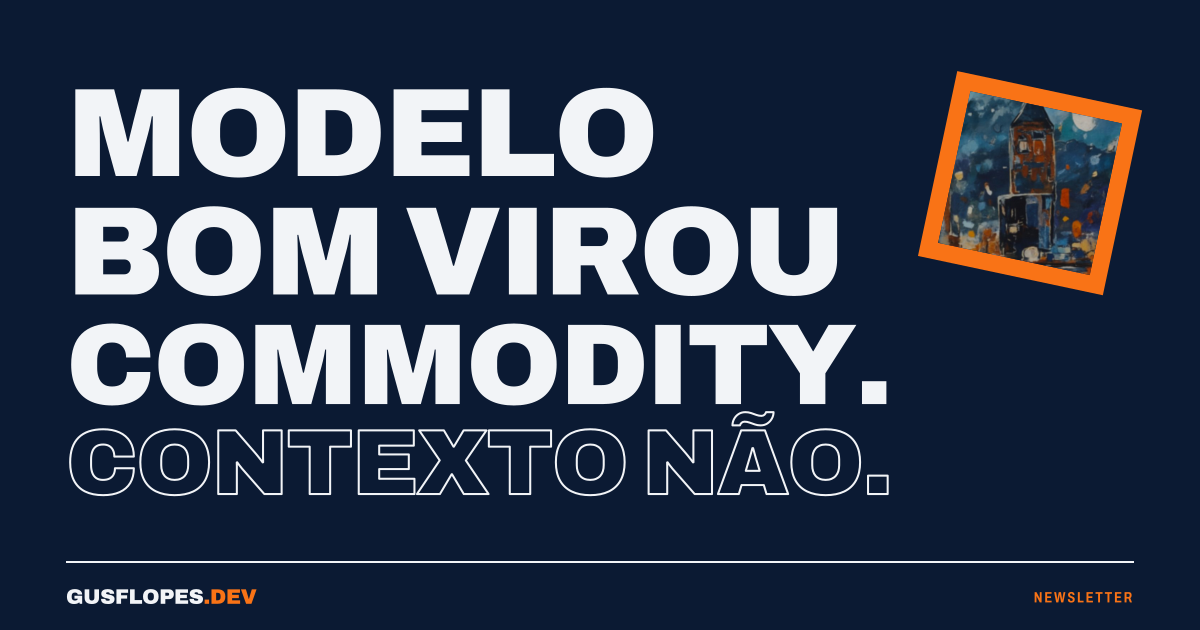
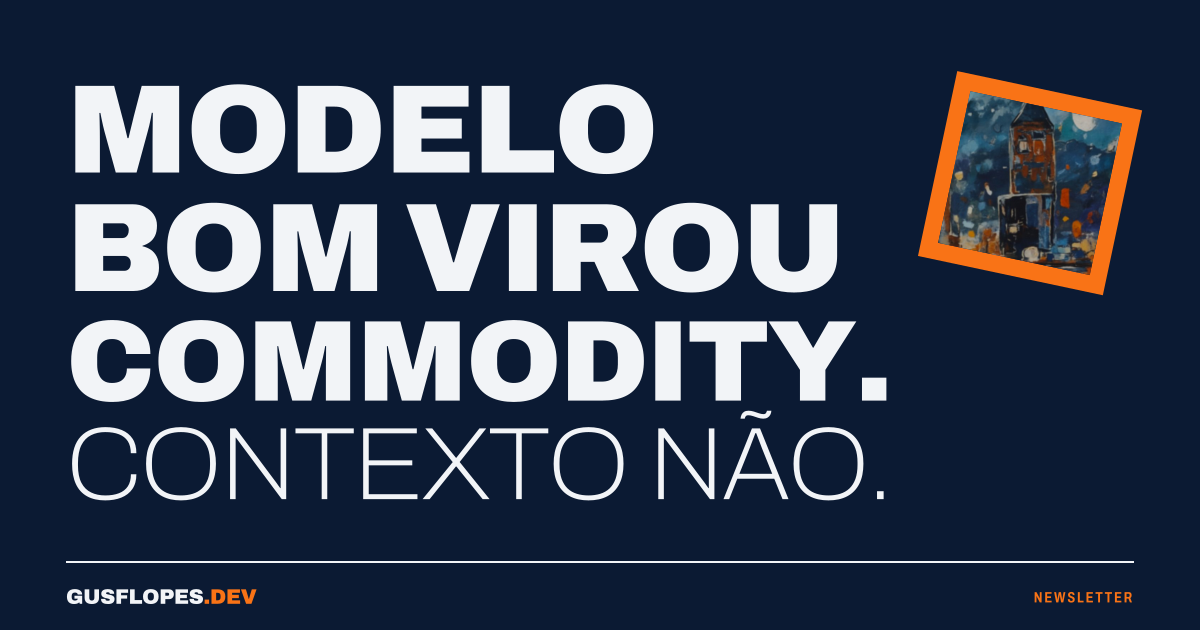
fix(design): baixa o volume abaixo do hero — par 900/100, nomes em caixa mista, janela maior no celular
- Aberturas: a linha marcada deixa de ser vazada e passa a Archivo 100 sólido (o par 900/100),
  medida com as larguras do peso 100 (métricas regeneradas). Vazado só no MESMO da tese e no
  Simulador (opção `vazado`). O gerador de capa do kit segue a mesma regra; exemplos regenerados.
- Nomes dos temas, serviços e eixos e a ação do Simulador: Archivo estreita 780 em caixa mista
  (NomeCelula); a caixa-alta 900 fica para uma abertura por seção.
- Temas no celular: só filete de topo, sem caixas fechadas.
- Hero: janela do quadro com ~42% da largura no celular, no vão de MESMO/SISTEMA, sangrando na
  borda direita sem cobrir o DO; metadados sem "·" pendurado (cada item sem quebra, o
  separador vai com o item seguinte).

Claude-Session: https://claude.ai/code/session_01G5QirRtrqW1g2QHV9fAH4M

diff --git a/src/lib/abertura.ts b/src/lib/abertura.ts
@@ -11,11 +11,14 @@
  *    build por scripts/gerar-metricas-abertura.mjs).
  * 4. Escala e forma por eixo:
  *    - engenharia → "bloco": cada linha ajustada à largura toda (justificado), alinhado à esquerda;
- *      a última linha vazada.
- *    - negocios → "escada": larguras decrescentes, alinhado à direita; a primeira linha vazada.
+ *      a última linha leve.
+ *    - negocios → "escada": larguras decrescentes, alinhado à direita; a primeira linha leve.
  *    - bastidores → "degraus": mesmo corpo em todas as linhas, cada uma recuada um degrau;
- *      a linha do meio vazada.
- *    - newsletter → "bloco", com a última linha vazada.
+ *      a linha do meio leve.
+ *    - newsletter → "bloco", com a última linha leve.
+ * 5. Par 900/100: a linha marcada é o mesmo desenho no peso 100, sólida, medida com as larguras
+ *    do peso 100. O contorno vazado fica para quem pede (`vazado: true`): na home, só o Simulador
+ *    (e o MESMO da tese, que é montado à mão).
  *
  * O resultado é só dado (linhas, tamanhos em cqi, recuos); quem desenha é o componente
  * Abertura (site) e o gerador de capa do Substack (docs/substack-kit/gerar-capa.mjs).
@@ -38,7 +41,11 @@ export interface LinhaAbertura {
   fit: number;
   /** Recuo à esquerda em cqi (forma "degraus"). */
   recuo: number;
-  estilo: 'cheio' | 'vazado';
+  /**
+   * "leve": a linha marcada do par 900/100 (mesmo desenho no peso 100, sólida).
+   * "vazado": só no contorno, reservado a pedidos explícitos (opção `vazado`).
+   */
+  estilo: 'cheio' | 'leve' | 'vazado';
   /** Largura da linha em em (para quem desenha fora do CSS). */
   largura: number;
 }
@@ -63,14 +70,21 @@ const TRACKING = -0.02; // em por glifo, igual ao letter-spacing do CSS
 const ESPACO_ESTREITA = 0.12; // em extra por espaço na estreita, igual ao word-spacing do CSS
 // nenhuma linha passa deste corpo (em % da largura do bloco): 24 na larga, 34 na estreita
 const TETOS: Record<InstanciaAbertura, number> = { larga: 24, estreita: 34 };
-const TABELAS: Record<InstanciaAbertura, { larguras: Record<string, number>; padrao: number }> = {
-  larga: { larguras: metricas.larguras as Record<string, number>, padrao: metricas.padrao },
-  estreita: { larguras: metricas.estreita.larguras as Record<string, number>, padrao: metricas.estreita.padrao },
+type Tabela = { larguras: Record<string, number>; padrao: number };
+const TABELAS: Record<InstanciaAbertura, { cheio: Tabela; leve: Tabela }> = {
+  larga: {
+    cheio: { larguras: metricas.larguras as Record<string, number>, padrao: metricas.padrao },
+    leve: { larguras: metricas.leve.larguras as Record<string, number>, padrao: metricas.leve.padrao },
+  },
+  estreita: {
+    cheio: { larguras: metricas.estreita.larguras as Record<string, number>, padrao: metricas.estreita.padrao },
+    leve: { larguras: metricas.estreita.leve.larguras as Record<string, number>, padrao: metricas.estreita.leve.padrao },
+  },
 };
 
-/** Largura em em de um texto já em caixa-alta, na instância de display pedida. */
-export function larguraEm(texto: string, instancia: InstanciaAbertura = 'larga'): number {
-  const t = TABELAS[instancia];
+/** Largura em em de um texto já em caixa-alta, na instância de display pedida (peso 900/850 ou leve 100). */
+export function larguraEm(texto: string, instancia: InstanciaAbertura = 'larga', leve = false): number {
+  const t = TABELAS[instancia][leve ? 'leve' : 'cheio'];
   let soma = 0;
   for (const ch of texto) soma += t.larguras[ch] ?? t.padrao;
   // a estreita leva word-spacing de 0.12em no CSS (o espaço dela é apertado demais)
@@ -164,6 +178,7 @@ export function abertura(
   titulo: string,
   eixo: EixoAbertura = 'engenharia',
   instancia: InstanciaAbertura = 'larga',
+  opcoes: { vazado?: boolean } = {},
 ): Abertura {
   const { cabeca, sep, cauda } = cortar(titulo);
   const us = unidades(cabeca);
@@ -171,9 +186,14 @@ export function abertura(
   const textos = particionar(us, n, instancia);
   const forma = FORMA[eixo];
   const TETO_CQI = TETOS[instancia];
+  // A linha marcada de cada forma: última no bloco, primeira na escada, a do meio nos degraus.
+  // Ela é leve (peso 100, sólida) — o par 900/100; vazada só quando pedido.
+  const marcada = n < 2 ? -1 : forma === 'bloco' ? n - 1 : forma === 'escada' ? 0 : Math.floor(n / 2);
+  const marca: LinhaAbertura['estilo'] = opcoes.vazado ? 'vazado' : 'leve';
+  const estilo = (i: number): LinhaAbertura['estilo'] => (i === marcada ? marca : 'cheio');
   // A largura medida inclui o separador na última linha, para ele caber no ajuste.
   const medidas = textos.map((t, i) =>
-    larguraEm(caixaAlta(i === textos.length - 1 && sep ? t + sep : t), instancia),
+    larguraEm(caixaAlta(i === textos.length - 1 && sep ? t + sep : t), instancia, estilo(i) === 'leve'),
   );
   // margem de 3% para kerning e arredondamento do navegador
   const util = 97;
@@ -184,7 +204,7 @@ export function abertura(
       texto: textos[i],
       fit: arred(Math.min(util / m, TETO_CQI)),
       recuo: 0,
-      estilo: n > 1 && i === n - 1 ? 'vazado' : 'cheio',
+      estilo: estilo(i),
       largura: m,
     }));
   } else if (forma === 'escada') {
@@ -194,7 +214,7 @@ export function abertura(
         texto: textos[i],
         fit: arred(Math.min((util * fracao) / m, TETO_CQI)),
         recuo: 0,
-        estilo: n > 1 && i === 0 ? 'vazado' : 'cheio',
+        estilo: estilo(i),
         largura: m,
       };
     });
@@ -202,12 +222,11 @@ export function abertura(
     const degrau = n > 1 ? Math.min(8, 24 / (n - 1)) : 0;
     const recuos = medidas.map((_, i) => i * degrau);
     const corpo = Math.min(TETO_CQI, ...medidas.map((m, i) => (util - recuos[i]) / m));
-    const meio = Math.floor(n / 2);
     linhas = medidas.map((m, i) => ({
       texto: textos[i],
       fit: arred(corpo),
       recuo: arred(recuos[i]),
-      estilo: n > 1 && i === meio ? 'vazado' : 'cheio',
+      estilo: estilo(i),
       largura: m,
     }));
   }

diff --git a/src/components/Abertura.tsx b/src/components/Abertura.tsx
@@ -1,5 +1,5 @@
 import type { CSSProperties } from 'react';
-import { abertura, larguraEm, type EixoAbertura, type InstanciaAbertura } from '../lib/abertura';
+import { abertura, type EixoAbertura, type InstanciaAbertura } from '../lib/abertura';
 
 interface AberturaProps {
   titulo: string;
@@ -12,6 +12,8 @@ interface AberturaProps {
   teto?: number;
   /** Esconde a linha-fina (cauda) — quando o contexto já mostra o título inteiro em outro lugar. */
   semCauda?: boolean;
+  /** Linha marcada só no contorno em vez de leve (peso 100). Na home, só o Simulador. */
+  vazado?: boolean;
   id?: string;
   className?: string;
 }
@@ -27,10 +29,11 @@ export function Abertura({
   as: Tag = 'h1',
   teto = 8,
   semCauda = false,
+  vazado = false,
   id,
   className = '',
 }: AberturaProps) {
-  const a = abertura(titulo, eixo, instancia);
+  const a = abertura(titulo, eixo, instancia, { vazado });
   const ultima = a.linhas.length - 1;
   return (
     <Tag
@@ -60,30 +63,25 @@ export function Abertura({
 }
 
 /**
- * Título curto de célula (temas, serviços): quebra no " & " (o "e" fica no fim da primeira
- * linha, em laranja) e cada linha é ajustada à largura da célula — um bloco justificado.
- * Sem linha vazada: o contorno é das aberturas de seção.
+ * Nome curto de célula (temas, serviços, eixos): Archivo estreita 780 em caixa mista — volume
+ * abaixo da abertura da seção, que é a única em caixa-alta 900. Quebra no " & " (o "&" fica no
+ * fim da primeira linha, em laranja: a ponte entre os dois termos).
  */
-export function BlocoCelula({ titulo, as: Tag = 'h3', teto = 5, className = '' }: { titulo: string; as?: 'h2' | 'h3' | 'dt' | 'p'; teto?: number; className?: string }) {
-  const partes = titulo.includes(' & ') ? titulo.split(' & ') : titulo.split(' ');
-  const linhas = partes.length === 2 && titulo.includes(' & ') ? [`${partes[0]} &`, partes[1]] : partes;
-  const fits = linhas.map((l) => Math.round((96 / larguraEm(l.toLocaleUpperCase('pt-BR'), 'estreita')) * 100) / 100);
-  // Largura máxima do bloco: onde a linha de maior corpo chega ao teto. Assim o teto nunca
-  // quebra a justificação — o bloco fica mais estreito que a célula, mas sempre justificado.
-  const maxW = (teto * 100) / Math.max(...fits);
+export function NomeCelula({ titulo, as: Tag = 'h3', className = '' }: { titulo: string; as?: 'h2' | 'h3' | 'dt' | 'p'; className?: string }) {
+  const amp = titulo.includes(' & ');
+  const [a, b] = amp ? titulo.split(' & ') : [titulo, ''];
   return (
-    <Tag className={`bloco-celula ${className}`} style={{ '--teto': `${teto}rem`, maxWidth: `${Math.round(maxW * 100) / 100}rem` } as CSSProperties}>
-      {linhas.map((l, i) => {
-        const fit = fits[i];
-        const amp = l.endsWith(' &');
-        return (
-          <span key={i} style={{ '--fit': fit } as CSSProperties}>
-            {amp ? l.slice(0, -1) : l}
-            {amp && <span className="text-laranja-fundo">&amp;</span>}
-            {i < linhas.length - 1 ? ' ' : null}
-          </span>
-        );
-      })}
+    <Tag className={`nome-celula ${className}`}>
+      {amp ? (
+        <>
+          <span className="block">
+            {a} <span className="text-laranja-fundo">&amp;</span>
+          </span>{' '}
+          <span className="block">{b}</span>
+        </>
+      ) : (
+        titulo
+      )}
     </Tag>
   );
 }

diff --git a/src/index.css b/src/index.css
@@ -231,6 +231,11 @@
   .abertura[data-alinhamento="end"] .abertura-linha {
     margin-inline-start: auto;
   }
+  /* Par 900/100: a linha marcada é o mesmo desenho no peso 100, sólida. */
+  .abertura .abertura-linha[data-estilo="leve"],
+  .abertura[data-instancia] .abertura-linha[data-estilo="leve"] {
+    font-weight: 100;
+  }
   .abertura-linha[data-estilo="vazado"] {
     color: transparent;
     -webkit-text-stroke: max(1.5px, 0.022em) currentColor;
@@ -356,23 +361,16 @@
     font-stretch: 62%;
     word-spacing: 0.12em;
   }
-  /* Título justificado em célula: cada linha ajustada à largura da célula (cqi). */
-  .bloco-celula {
-    container-type: inline-size;
+  /* Nome de célula (temas, serviços, eixos): estreita 780 em caixa mista, abaixo da abertura. */
+  .nome-celula {
     margin: 0;
-  }
-  .bloco-celula > span {
-    display: block;
-    width: fit-content;
-    white-space: nowrap;
     font-family: var(--font-sans);
-    font-weight: 850;
-    font-stretch: 62%;
-    text-transform: uppercase;
-    letter-spacing: -0.02em;
-    line-height: 0.88;
-    word-spacing: 0.12em;
-    font-size: min(calc(var(--fit) * 1cqi), var(--teto, 6rem));
+    font-weight: 780;
+    font-stretch: 72%;
+    font-size: clamp(1.75rem, 1.35rem + 1.3vw, 2.5rem);
+    line-height: 0.98;
+    letter-spacing: -0.015em;
+    text-wrap: balance;
   }
   /* Numeral de data/ordem: Archivo leve e largo, algarismos tabulares. */
   .numeral {
@@ -388,11 +386,21 @@
     line-height: 0.86;
     padding-block: 0;
   }
+  /*
+   * Celular: a janela tem ~42% da largura da tela (46cqi do bloco), começa logo abaixo de
+   * PARTES DO (sem cobrir o DO), à direita de MESMO / SISTEMA, e sangra na borda direita.
+   * O bloco ganha respiro embaixo para a janela pendurada não encostar no filete da faixa.
+   */
   .tese-janela {
     position: absolute;
-    left: 82cqi;
-    top: 33cqi;
-    width: 21cqi;
+    left: 75cqi;
+    top: 37cqi;
+    width: 46cqi;
+  }
+  @media (max-width: 1023.98px) {
+    .tese {
+      padding-bottom: calc(0.36 * (100vw - 2 * var(--gutter)));
+    }
   }
   @media (min-width: 1024px) {
     .tese-janela {

diff --git a/src/components/Themes.tsx b/src/components/Themes.tsx
@@ -1,4 +1,4 @@
-import { Abertura, BlocoCelula } from './Abertura';
+import { Abertura, NomeCelula } from './Abertura';
 
 const themes = [
   {
@@ -35,8 +35,9 @@ const SPAN = ['lg:col-span-4', 'lg:col-span-4', 'lg:col-span-4', 'lg:col-span-7'
  * Trabalho da seção: entender quem escreve e em que áreas atua.
  * Composição: abertura em bloco ocupando 7 colunas, trajetória em serifa alinhada pela base;
  * embaixo, os cinco temas como partição de grade (3 + 2) desenhada pelo próprio fundo azul
- * nos vãos de 2px. Cada nome de tema é um bloco justificado que ocupa a largura da célula,
- * com o "&" em laranja: a ponte entre os dois termos.
+ * nos vãos de 2px (no celular, só o filete de topo de cada tema). O nome de cada tema é
+ * estreita 780 em caixa mista, com o "&" em laranja: a ponte entre os dois termos — a caixa-alta
+ * 900 fica só para a abertura da seção.
  */
 export function Themes() {
   return (
@@ -57,10 +58,11 @@ export function Themes() {
           </div>
         </div>
 
-        <dl className="mt-14 md:mt-20 grid grid-cols-1 md:grid-cols-2 lg:grid-cols-12 gap-[2px] bg-azul border-2 border-azul">
+        {/* Celular: só o filete de topo de cada tema, sem caixas fechadas. */}
+        <dl className="mt-14 md:mt-20 grid grid-cols-1 md:grid-cols-2 lg:grid-cols-12 md:gap-[2px] md:bg-azul md:border-2 md:border-azul">
           {themes.map((theme, i) => (
-            <div key={theme.title} className={`campo-papel ${SPAN[i]} ${i === 4 ? 'md:col-span-2' : ''} p-6 md:p-7 flex flex-col gap-5`}>
-              <BlocoCelula titulo={theme.title} as="dt" teto={4.75} className="text-azul" />
+            <div key={theme.title} className={`campo-papel ${SPAN[i]} ${i === 4 ? 'md:col-span-2' : ''} max-md:border-t-2 max-md:border-azul pt-5 pb-10 md:p-7 flex flex-col gap-4 md:gap-5`}>
+              <NomeCelula titulo={theme.title} as="dt" className="text-azul" />
               <dd className="font-serif text-[1.0625rem] leading-relaxed text-tinta max-w-[46ch]">{theme.description}</dd>
             </div>
           ))}

diff --git a/src/components/Ferramenta.tsx b/src/components/Ferramenta.tsx
@@ -5,7 +5,8 @@ import { Abertura } from './Abertura';
 /**
  * Trabalho da seção: experimentar algo agora (a ferramenta da Reforma Tributária).
  * Composição: grade de filetes azul-3 sobre o campo azul. O nome é abertura em "degraus"
- * (forma do eixo Bastidores) com os metadados numa célula ao lado; embaixo, a própria ação é
+ * (forma do eixo Bastidores), com a linha do meio vazada — o único contorno da home além do
+ * MESMO da tese —, e os metadados numa célula ao lado; embaixo, a própria ação é
  * uma célula laranja inteira, seguida do texto e da nota de cautela.
  */
 export function Ferramenta() {
@@ -15,7 +16,7 @@ export function Ferramenta() {
       <div className="moldura">
         <div className="grid lg:grid-cols-12 gap-[2px] bg-azul-3 border-y-2 border-azul-3">
           <div className="bg-azul lg:col-span-9 pt-6 pb-8 lg:pr-10">
-            <Abertura id="ferramenta-title" as="h2" titulo={reforma.nome} eixo="bastidores" teto={7.5} />
+            <Abertura id="ferramenta-title" as="h2" titulo={reforma.nome} eixo="bastidores" teto={7.5} vazado />
           </div>
           <p className="bg-azul lg:col-span-3 rotulo text-laranja pb-6 lg:pt-7 lg:pl-6">Ferramenta gratuita · Experimento aberto</p>
 
@@ -23,7 +24,7 @@ export function Ferramenta() {
             href={comUtm(reforma.url, reforma.campanha, 'home-ferramenta')}
             className="celula-acao campo-laranja lg:col-span-3 p-6 min-h-[9rem] lg:min-h-[13rem] group"
           >
-            <span className="font-sans font-[850] [font-stretch:62%] uppercase text-[2.25rem] md:text-[2.75rem] leading-[0.9] tracking-[-0.01em]">
+            <span className="font-sans font-[800] [font-stretch:72%] text-[2.25rem] md:text-[2.75rem] leading-[0.95] tracking-[-0.015em]">
               Fazer o diagnóstico
             </span>
             <ArrowRight size={36} strokeWidth={2.25} aria-hidden="true" className="self-end transition-transform duration-200 group-hover:translate-x-1" />

diff --git a/src/components/Hero.tsx b/src/components/Hero.tsx
@@ -17,6 +17,8 @@ const TESE: { texto: string; fracao: number; estilo?: 'menor' | 'vazado' }[] = [
   { texto: 'sistema', fracao: 0.7 },
 ];
 
+const META = ['Estratégia', 'Arquitetura', 'Fluxo', 'IA aplicada'];
+
 const fit = (texto: string, fracao: number) =>
   Math.round(((97 * fracao) / larguraEm(texto.toLocaleUpperCase('pt-BR'))) * 100) / 100;
 
@@ -78,7 +80,13 @@ export function Hero({ fundo }: { fundo: FundoResponsivo }) {
             </p>
           </div>
           <p className="rotulo text-laranja lg:col-span-3 lg:col-start-1 lg:row-start-1 px-[var(--gutter)] md:px-0 pb-8 lg:pt-7 lg:pb-0 lg:pr-4 max-lg:order-2">
-            Estratégia · Arquitetura · Fluxo · IA aplicada
+            {/* Cada item sem quebra; o "·" viaja com o item seguinte, nunca fica pendurado. */}
+            {META.map((item, i) => (
+              <span key={item}>
+                {i > 0 ? ' ' : null}
+                <span className="whitespace-nowrap">{i > 0 ? `· ${item}` : item}</span>
+              </span>
+            ))}
           </p>
           <div className="campo-laranja lg:col-span-4 lg:col-start-9 lg:row-start-1 max-lg:order-3 px-[var(--gutter)] md:px-7 py-7 flex flex-col justify-between gap-6">
             <p className="font-sans font-semibold [font-stretch:87%] text-[1.0625rem] leading-snug">{newsletter.pitch}</p>

diff --git a/src/components/Services.tsx b/src/components/Services.tsx
@@ -1,6 +1,6 @@
 import { ArrowRight } from 'lucide-react';
 import { site } from '../config/site';
-import { Abertura, BlocoCelula } from './Abertura';
+import { Abertura, NomeCelula } from './Abertura';
 
 export function Services() {
   const services = [
@@ -41,7 +41,7 @@ export function Services() {
         <div className="mt-12 lg:-mt-36 grid grid-cols-1 md:grid-cols-3 gap-x-[var(--gutter)] gap-y-12 items-start">
           {services.map((service, i) => (
             <article key={service.title} className={`flex flex-col border-t-[6px] border-azul pt-5 ${degrau[i]}`}>
-              <BlocoCelula titulo={service.title} teto={4.5} className="text-azul mb-5" />
+              <NomeCelula titulo={service.title} className="text-azul mb-5" />
               <p className="font-serif text-[1.0625rem] leading-relaxed text-tinta mb-7 max-w-[40ch]">{service.description}</p>
               <a href={service.link} className="acao self-start">
                 {service.action} <ArrowRight size={16} strokeWidth={2.5} aria-hidden="true" />

diff --git a/docs/substack-kit/README.md b/docs/substack-kit/README.md
@@ -35,7 +35,7 @@ node docs/substack-kit/gerar-capa.mjs "Título da edição" newsletter
 
 - **1456×816**: imagem de capa do post no Substack (proporção 16:9 que ele usa).
 - **1200×630**: prévia social (LinkedIn, X, Bluesky) e `og:image`, se quiser usar no site.
-- As regras de quebra, escala e palavra vazada vêm de `src/lib/abertura.ts`, as mesmas das aberturas dos
+- As regras de quebra, escala e linha leve (o par 900/100: a linha marcada sai no peso 100, sólida) vêm de `src/lib/abertura.ts`, as mesmas das aberturas dos
   artigos no site. Mesmo título + mesmo eixo = mesma capa, sempre. O eixo muda a forma: bloco justificado
   (Engenharia & IA, Newsletter), escada à direita (Negócios), degraus (Bastidores).
 - O texto vira curva (SVG `<path>`) a partir dos arquivos `@fontsource-variable` do próprio site
